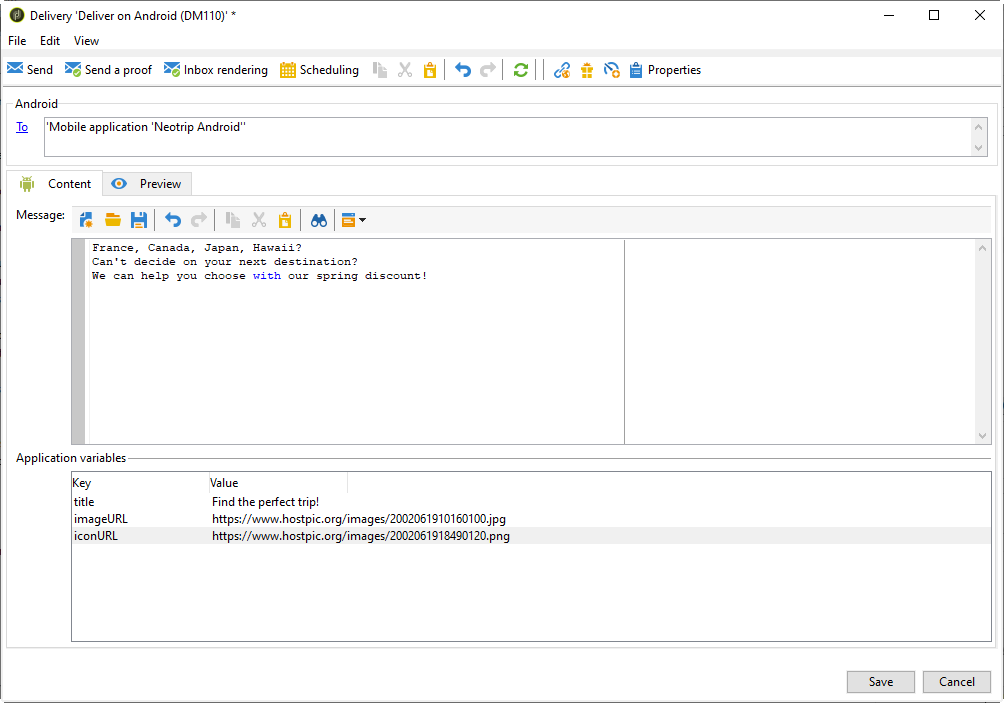
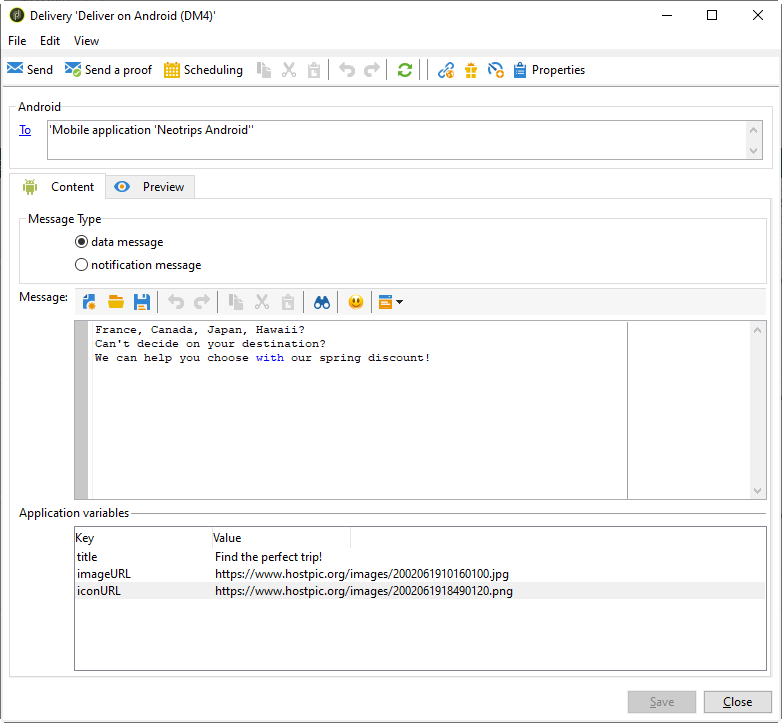
procedure notification message

diff --git a/help/delivery/using/configuring-the-mobile-application-android.md b/help/delivery/using/configuring-the-mobile-application-android.md
@@ -208,20 +208,20 @@ For more information on Firebase Cloud Messaging messages types, refer to [FCM d
 
     ![](assets/nmac_android_7.png)
 
-1. In the **[!UICONTROL Target type]** window, select Subscribers of an Android mobile application and click **[!UICONTROL Next]**.
+1. In the **[!UICONTROL Target type]** window, select **[!UICONTROL Subscribers of an Android mobile application]** and click **[!UICONTROL Next]**.
 
 1. In the **[!UICONTROL Service]** drop-down, select your previously created service then application and click **[!UICONTROL Finish]**.
     The **[!UICONTROL Application variables]** are automatically added depending on what was added during the configuration steps.
 
     ![](assets/nmac_android_6.png)
 
-1. Select **[!UICONTROL data message]**.
+1. Select **[!UICONTROL data message]** as **[!UICONTROL Message Type]**.
 
 1. Edit your rich notification.
 
     ![](assets/nmac_android_5.png)
 
-1. You can add your previously configured **[!UICONTROL Application variables]** if needed. **[!UICONTROL Application variables]** needs to be configured in the Android service and are a part of the message payload sent to the mobile device.
+1. You can add information in your previously configured **[!UICONTROL Application variables]** if needed. **[!UICONTROL Application variables]** needs to be configured in the Android service and are a part of the message payload sent to the mobile device.
 
 1. Click **[!UICONTROL Save]** and send your delivery.
 
@@ -243,20 +243,40 @@ The image and web page should be displayed in the push notification when receive
 
 1. Select **[!UICONTROL Deliver on Android (android)]** in the **[!UICONTROL Delivery template]** drop-down. Add a **[!UICONTROL Label]** to your delivery.
 
-1. Click **[!UICONTROL To]** to define the population to target. By default, the **[!UICONTROL Subscriber application]** target mapping is applied. Click **[!UICONTROL Add]** to select your service
+1. Click **[!UICONTROL To]** to define the population to target. By default, the **[!UICONTROL Subscriber application]** target mapping is applied. Click **[!UICONTROL Add]** to select your service.
 
     ![](assets/nmac_android_7.png)
 
-1. Select **[!UICONTROL notification message]**.
+1. In the **[!UICONTROL Target type]** window, select **[!UICONTROL Subscribers of an Android mobile application]** and click **[!UICONTROL Next]**.
 
-1. Edit your rich notification.
+1. In the **[!UICONTROL Service]** drop-down, select your previously created service then application and click **[!UICONTROL Finish]**.
 
-    ![](assets/nmac_android_5.png)
+    ![](assets/nmac_android_6.png)
 
-1. You can add your previously configured **[!UICONTROL Application variables]** if needed. **[!UICONTROL Application variables]** needs to be configured in the Android service and are a part of the message payload sent to the mobile device.
+1. Select **[!UICONTROL notification message]** as **[!UICONTROL Message Type]**.
+
+1. Add a title and edit your message. Personalize your push notification with the **[!UICONTROL Notification options]**:
+
+   * **[!UICONTROL Channel ID]**: set the notification's channel ID. The app must create a channel with this channel ID before any notification with this channel ID is received. If you don't send this channel ID in the request, or if the channel ID provided has not yet been created by the app, FCM uses the channel ID specified in the app manifest.
+   * **[!UICONTROL Sound]**: set the sound to play when the device receives the notification.
+   * **[!UICONTROL Color]**:
+   * **[!UICONTROL Icon]**: set the notification's icon to display on your profiles' devices.
+   * **[!UICONTROL Tag]**: set the identifier used to replace existing notifications in the notification drawer.
+   * **[!UICONTROL Click action]**: set the action associated with a user click on the notification.
+
+1. If your application is configured with HTTPV1 protocol, you can further personalize your push notification with the following **[!UICONTROL HTTPV1 additional options]**:
+
+   * **[!UICONTROL Ticker]**:
+   * **[!UICONTROL Image]**:
+   * **[!UICONTROL Notification count]**:
+   * **[!UICONTROL Sticky]**: set to true or false. If set to false, the notification is automatically dismissed when the user clicks it. If set to true, the notification is still displayed even when the user clicks it.
+   * **[!UICONTROL Notification priority]**: set the priority levels of your notification. For more on this, refer to [FCM documentation](https://firebase.google.com/docs/reference/fcm/rest/v1/projects.messages#NotificationPriority).
+   * **[!UICONTROL Visibility]**: set the visibility levels of your notification. For more on this, refer to [FCM documentation](https://firebase.google.com/docs/reference/fcm/rest/v1/projects.messages#visibility).
+
+
+
+1. You can add information in your previously configured **[!UICONTROL Application variables]** if needed. **[!UICONTROL Application variables]** needs to be configured in the Android service and are a part of the message payload sent to the mobile device.
 
 1. Click **[!UICONTROL Save]** and send your delivery.
 
 The image and web page should be displayed in the push notification when received on the subscribers' mobile Android devices.
-
-![](assets/nmac_android_4.png)
